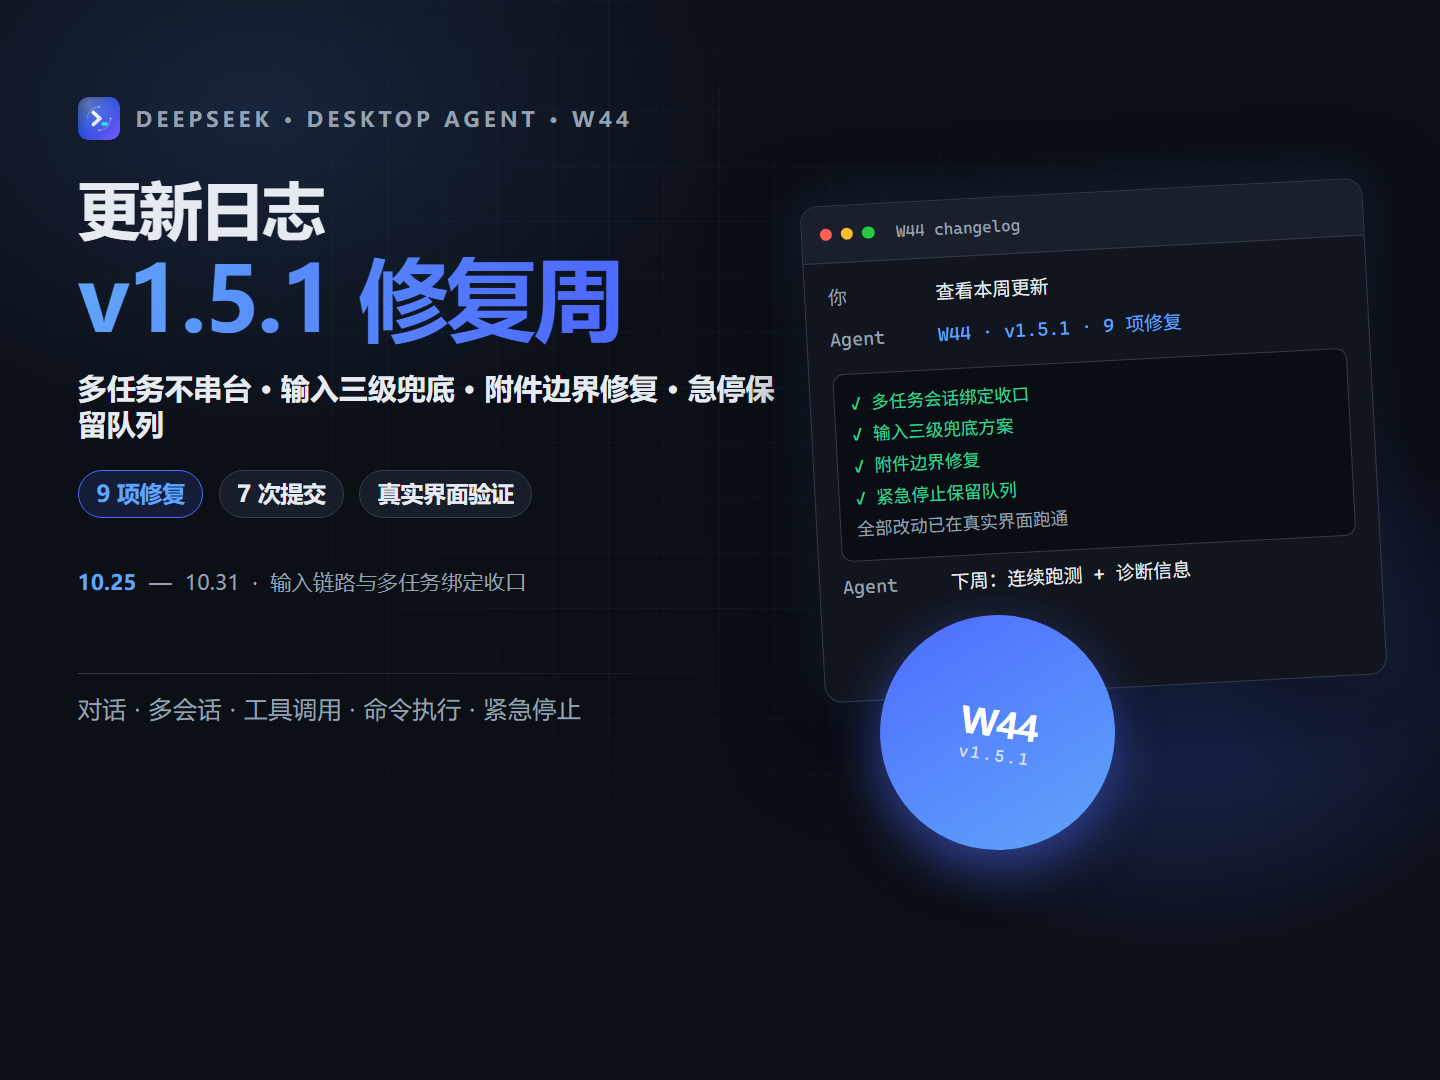
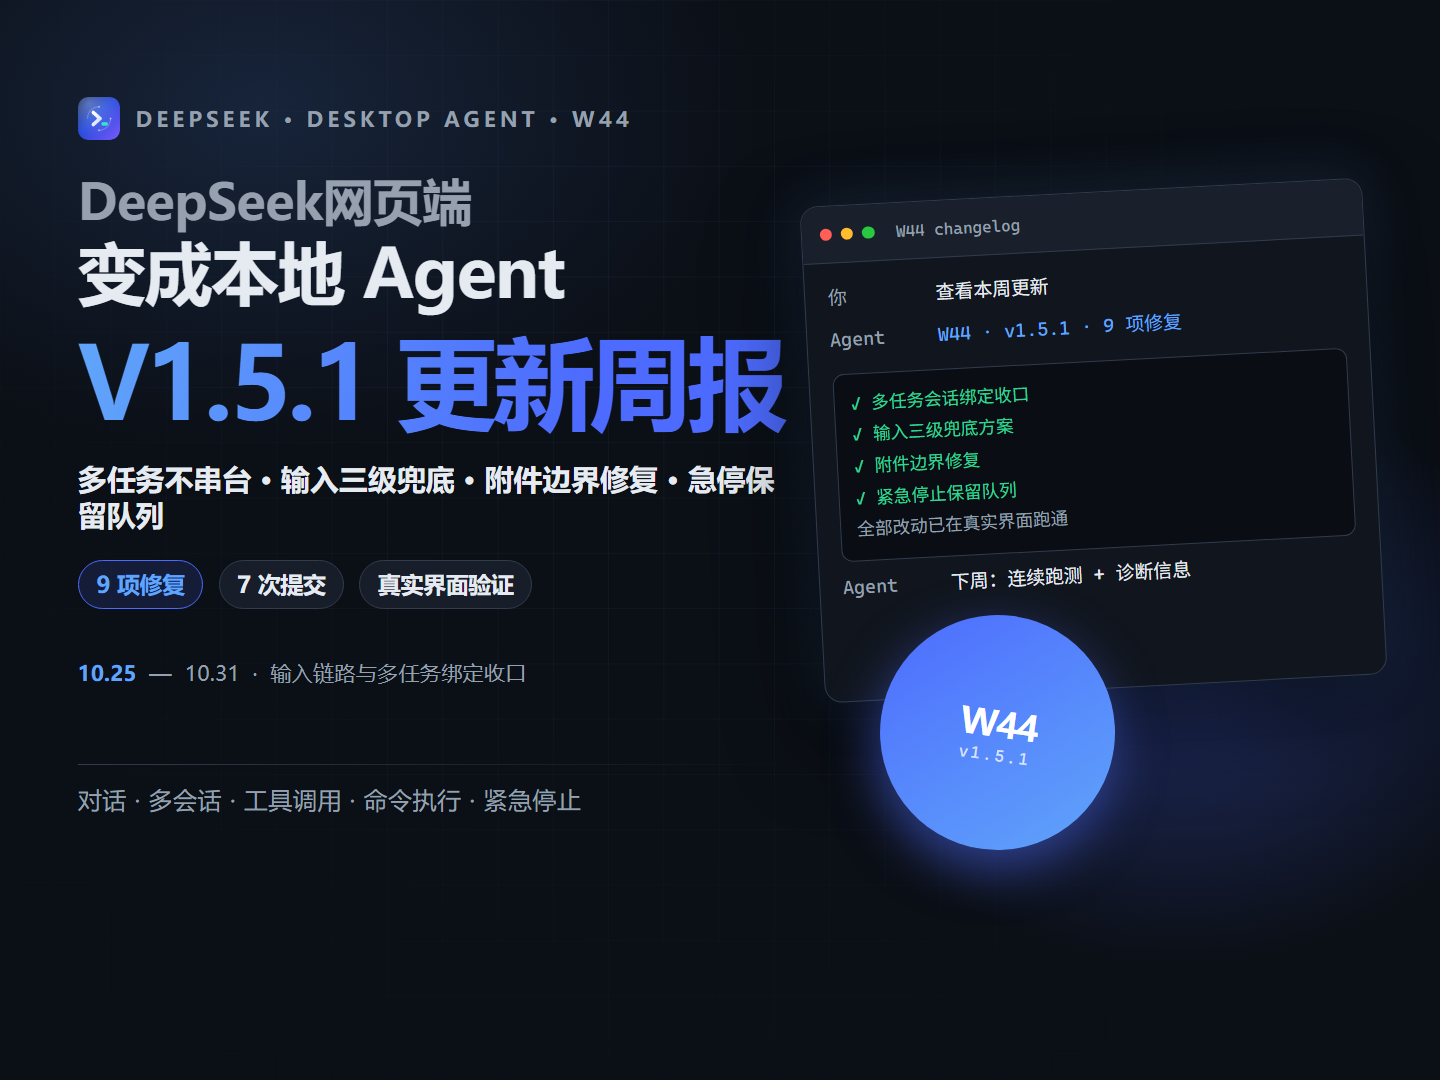
封面标题层级调整：网页端→本地Agent（中字号）+ V1.5.1更新周报（大字号彩色）

diff --git a/Works/remotion-intro/src/WeeklyCover.tsx b/Works/remotion-intro/src/WeeklyCover.tsx
@@ -64,28 +64,40 @@ export const WeeklyCover: React.FC = () => {
         <div
           style={{
             marginTop: 26 * u,
-            fontSize: 50 * u,
-            fontWeight: 800,
-            color: C.text,
+            fontSize: 40 * u,
+            fontWeight: 700,
+            color: C.subtle,
             lineHeight: 1.15,
-            letterSpacing: -1 * u,
+            letterSpacing: -0.5 * u,
           }}
         >
-          更新日志
+          DeepSeek网页端
         </div>
         <div
           style={{
             marginTop: 4 * u,
-            fontSize: 72 * u,
+            fontSize: 54 * u,
+            fontWeight: 800,
+            lineHeight: 1.1,
+            letterSpacing: -1 * u,
+            color: C.text,
+          }}
+        >
+          变成本地 Agent
+        </div>
+        <div
+          style={{
+            marginTop: 16 * u,
+            fontSize: 80 * u,
             fontWeight: 800,
             lineHeight: 1.05,
-            letterSpacing: -2 * u,
+            letterSpacing: -3 * u,
             background: `linear-gradient(100deg, ${C.accent} 0%, ${C.accent2} 70%)`,
             WebkitBackgroundClip: "text",
             WebkitTextFillColor: "transparent",
           }}
         >
-          v1.5.1 修复周
+          V1.5.1 更新周报
         </div>
 
         <div style={{ marginTop: 20 * u, fontSize: 23 * u, color: C.text, fontWeight: 600 }}>
